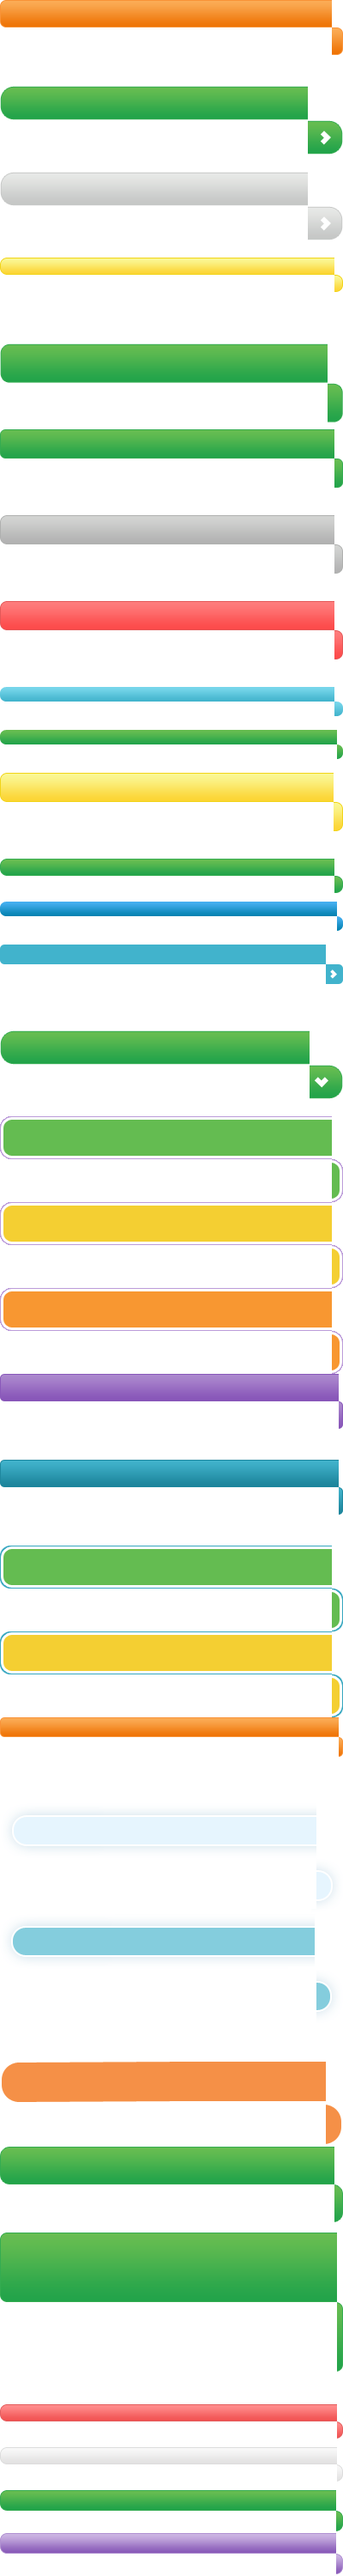
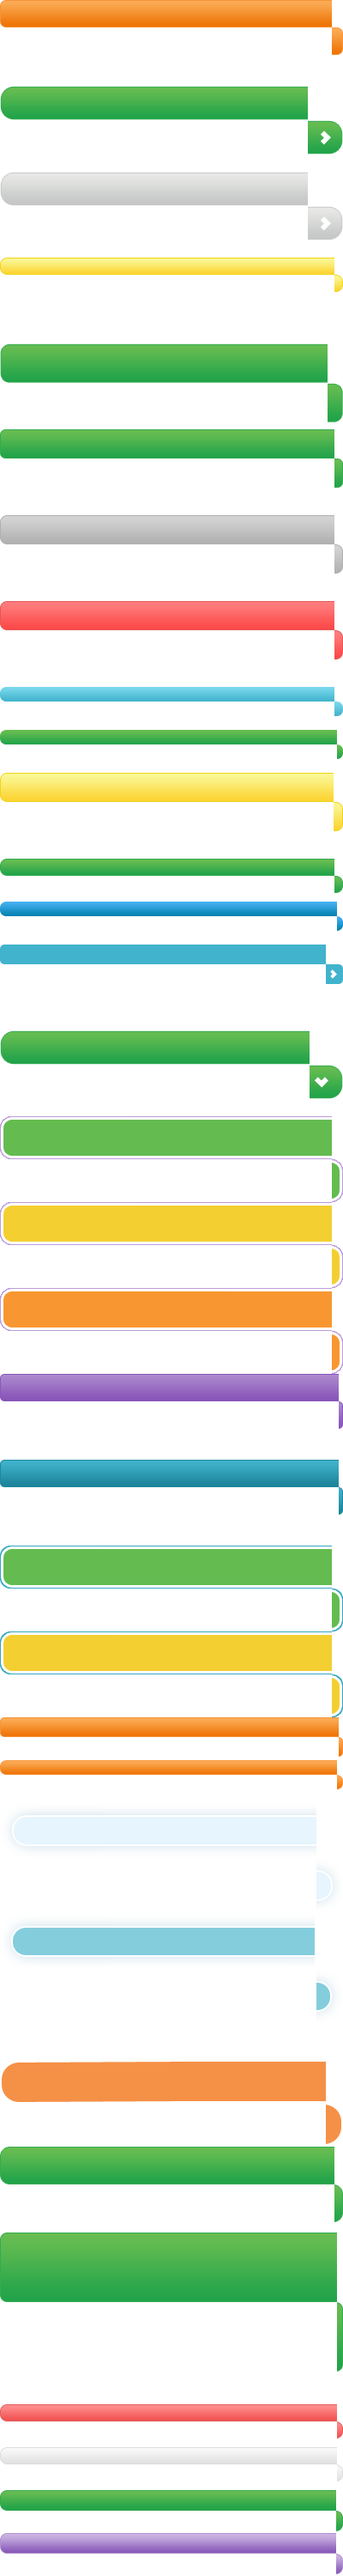
фиксы

Changed region(s): [[0.0, 0.682, 1.0, 0.713]]

diff --git a/site/frontend/www/stylesheets/common.css b/site/frontend/www/stylesheets/common.css
@@ -116,7 +116,7 @@ input.w-500, textarea.w-500 {width:476px;}
 
 a.info {display:inline-block;width:13px;height:13px;background:url(../images/common.png) no-repeat -267px -101px;}
 
-.tip {font-size:11px;line-height:normal;bottom:100%;left:100%;display:block;position:absolute;top:100%;white-space:nowrap;background:#fff8b4;color:#7e7d7d;padding:4px 10px;border:1px solid #fdef6c;display:none;top:auto !important;margin:0 0 2px 0;}
+.tip {display:block;position:absolute;bottom:100%;left:100%;white-space:nowrap;background:#fffac8;color:#929292;padding:4px 10px;border:1px solid #f3eca9;display:none;font-size:12px;z-index:3;}
 .tip {/*css3*/ -moz-border-radius:5px;-webkit-border-radius:5px;border-radius:5px;margin-top:3px;}
 *:hover > .tip {display:block;}
 
@@ -148,7 +148,7 @@ a.info {display:inline-block;width:13px;height:13px;background:url(../images/com
 .user-info {font-size:9px;line-height:12px;float:left;}
 .user-info .ava {float:left;}
 .user-info .details {margin-left:80px;text-align:left !important;padding:0 !important;}
-.user-info .details .username {font-size:11px;line-height:1.2;text-decoration:none;vertical-align:top;width:80px;margin:0;padding:0;overflow:hidden;display:inline-block;}
+.user-info .details .username {font-size:13px;line-height:1.2;text-decoration:none;vertical-align:top;width:80px;margin:0;padding:0;overflow:hidden;display:inline-block;}
 .user-info .details .username:hover {text-decoration:underline;}
 .user-info .details .location {margin:3px 0;}
 .user-info .details .location .flag {display:inline-block;margin-right:5px;position:relative;top:1px;}
@@ -163,7 +163,7 @@ a.info {display:inline-block;width:13px;height:13px;background:url(../images/com
 .user-fast-buttons .pending-friend {width:26px;height:26px;background:url(/images/common.png) no-repeat -310px -271px;}
 .user-fast-buttons .new-message {width:22px;height:17px;background:url(/images/common.png) no-repeat -234px -298px;margin-top:1px;}
 
-.icon-status {display:inline-block;width:11px;height:11px;background:url(../images/common.png) no-repeat;position:relative;top:1px;margin-right:5px;}
+.icon-status {display:inline-block;width:11px;height:11px;background:url(../images/common.png) no-repeat;position:relative;top:2px;margin-right:2px;}
 .icon-status.status-online {background-position:-44px -180px;}
 .icon-status.status-offline {background-position:-55px -180px;}
 
@@ -313,6 +313,9 @@ a.info {display:inline-block;width:13px;height:13px;background:url(../images/com
 .btn.btn-orange-small > span {padding-right:5px;height:23px;background-position:100% -2023px;color:#fff;font-size:11px;font-family:tahoma,arial, sans-serif;font-weight:bold;}
 .btn.btn-orange-small > span > span {padding-left:5px;height:23px;line-height:23px;background-position:0 -2000px;padding:0 5px 0 10px;}
 .btn.btn-orange-small.btn-arrow-right img {margin-left:5px;position:relative;top:2px;}
+
+.btn.btn-orange-smallest > span {padding-right:5px;height:17px;background-position:100% -2067px;color:#fff;font-size:11px;font-family:tahoma,arial, sans-serif;font-weight:bold;}
+.btn.btn-orange-smallest > span > span {padding-left:5px;height:17px;line-height:17px;background-position:0 -2050px;padding:0 5px 0 10px;}
 
 .btn.btn-red-transparent > span {padding-right:20px;height:50px;background-position:100% -2450px;color:#fff;font-size:30px;font-family:arial, sans-serif;}
 .btn.btn-red-transparent > span > span {padding-left:20px;height:50px;line-height:50px;background-position:0 -2400px;}

diff --git a/site/frontend/www/stylesheets/user.css b/site/frontend/www/stylesheets/user.css
@@ -6,7 +6,7 @@
 
 #user .box-title {font-size:22px;color:#4c4d4d;padding-bottom:10px;}
 #user .box-title a {font-size:13px;margin-left:10px;}
-#user .box-title .btn {position:relative;top:4px;margin-right:15px;margin-left:0;}
+#user .box-title .btn {position:relative;top:8px;margin-right:15px;margin-left:0;}
 
 #user .header {padding-bottom:15px;}
 
@@ -181,6 +181,7 @@
 #user .user-blog ul li .date {color:#AFAFB0;font-size:9px;font-family:tahoma, arial, helvetica, sans-serif;margin:6px 0 8px;}
 #user .user-blog ul li img {max-width:140px;}
 #user .user-blog ul li p {font-size:11px;}
+#user .user-blog .box-title .btn {margin-right:0;}
 
 #user .user-photo-add {padding:5px;border:1px solid #f7f7f7;}
 
@@ -319,8 +320,9 @@
 #user .family .family-member .data .comment {display:block;width:25px;height:19px;background:url(/images/common.png) no-repeat -636px -244px;float:left;margin-left:8px;position:relative;}
 #user .family .family-member .data .comment:hover {background-position:-636px -221px;}
 
-#user .family .family-member .data .photo {display:block;width:22px;height:16px;background:url(/images/common.png) no-repeat -663px -244px;float:left;margin-left:8px;position:relative;overflow:hidden;}
+#user .family .family-member .data .photo {display:block;width:22px;height:16px;background:url(/images/common.png) no-repeat -663px -244px;float:left;margin-left:8px;position:relative;}
 #user .family .family-member .data .photo:hover {background-position:-663px -221px;}
+#user .family .family-member .data .photo form {position:absolute;width:22px;height:16px;overflow:hidden;left:0;top:0;}
 #user .family .family-member .data .photo input[type=file] {opacity:0;position:absolute;z-index:3;right:0;top:0;height:100%;display:block;filter:progid:DXImageTransform.Microsoft.Alpha(opacity=0);width:210px;}
 
 

diff --git a/site/frontend/www/stylesheets/global.css b/site/frontend/www/stylesheets/global.css
@@ -575,7 +575,7 @@ a.pseudo {text-decoration:none;border-bottom:1px dashed #0498b8;}
 #morning.morning-wide .morning-main .entry .entry-content img {width: 1000px;}
 
 
-.entry .meta {float:right;color:#737575;text-align:right;font-size:13px;overflow:hidden;padding-top:10px;}
+.entry .meta {float:right;color:#737575;text-align:right;font-size:13px;overflow:hidden;padding-top:1px;}
 
 .entry .meta .seen {background:#fdfccc;width:auto;display:inline-block;text-align:center;padding:0 8px;height:21px;line-height:21px;}
 
@@ -3833,7 +3833,7 @@ ul.letters li a:hover {
 #repair-wallpapers .form .form-in .row .row-elements .col {width:32%;vertical-align:top;display:inline-block;font-size:16px;color:#3e3e3e;font-weight:bold;padding:5px 0;text-align:center;}
 #repair-wallpapers .form .form-in .row .row-elements .col small {font-size:11px;line-height:1;color:#7b6190;font-weight:normal;line-height:normal;}
 #repair-wallpapers .form .form-in .row .row-elements .col input[type=text] {padding:0px 12px;font-size:16px;color:#906ab6;width:45px;margin:0 5px;color:#906ab6;text-align:center;border:1px solid #dac8e7;vertical-align:top;margin-top:2px;}
-#repair-wallpapers .form .form-in .row .small {text-align:center;font-size:11px;line-height:1;color:#7b6190;font-weight:normal;line-height:normal;padding-top:5px;}
+#repair-wallpapers .form .form-in .row .small {text-align:center;font-size:10px;line-height:1;color:#999;font-weight:normal;line-height:normal;padding-top:5px;}
 #repair-wallpapers .form .form-in .row.row-btn {text-align:center;border-top:1px solid #f6e8ff;}
 
 #repair-wallpapers .form .row-btn button {font:bold 30px arial, helvetica, sans-serif;color: #a46307;width: 220px;height: 58px;border: 1px solid #f1d419;background: url(../images/bg_yellow_av.png) 0 0 repeat-x;cursor:pointer;}

diff --git a/site/frontend/www/html/social/user/user_widgets.html b/site/frontend/www/html/social/user/user_widgets.html
@@ -128,7 +128,7 @@
 								<div class="user-blog">
 									
 									<div class="box-title">
-										<a href="" class="btn btn-orange-small a-right"><span><span>Добавить запись</span></span></a>
+										<a href="" class="btn btn-orange-smallest a-right"><span><span>Добавить запись</span></span></a>
 										Блог <a href="">Все записи (25)</a>
 									</div>
 									
@@ -187,7 +187,7 @@
 								<div class="user-albums">
 								
 									<div class="box-title">
-										<a href="" class="btn btn-orange-small a-right"><span><span>Добавить фото</span></span></a>
+										<a href="" class="btn btn-orange-smallest a-right"><span><span>Добавить фото</span></span></a>
 										Фото <a href="">Все альбомы (12)</a>
 									</div>
 									

diff --git a/site/frontend/www/html/social/user/user_family.html b/site/frontend/www/html/social/user/user_family.html
@@ -588,7 +588,7 @@
 										</div>
 									</div>
 									<a href="javascript:void(0);" class="comment"><span class="tip">Расскажите о нем</span></a>
-									<a href="javascript:void(0);" class="photo"><span class="tip">Добавить 2 фото</span><input type="file" /></a>
+									<a href="javascript:void(0);" class="photo"><span class="tip">Добавить 2 фото</span><form><input type="file" /></form></a>
 								</div>
 								
 								<div class="comment">

diff --git a/site/frontend/www/html/services/repair/repair_bathroom_tile.html b/site/frontend/www/html/services/repair/repair_bathroom_tile.html
@@ -518,7 +518,7 @@
 						<div class="recommendation clearfix">
 							
 							<div class="left">
-								<img src="/images/img_bathroom_tile.png" /><br/>Плитки потребуется: <span>455 штук</span>
+								<img src="/images/img_repair_bathroom_tile.png" /><br/>Плитки потребуется: <span>455 штук</span>
 							</div>
 							
 							<div class="right">
